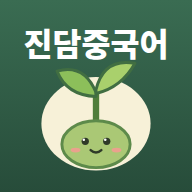
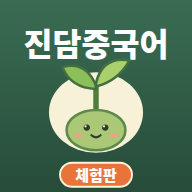
Add files via upload

Changed region(s): [[0.1875, 0.3125, 0.8125, 1.0], [0.4688, 0.6875, 0.5312, 0.7188]]

diff --git a/index.html b/index.html
@@ -5,11 +5,11 @@
   <meta name="viewport" content="width=device-width, initial-scale=1">
   <meta name="theme-color" content="#f7f7ef">
   <link rel="manifest" href="manifest.webmanifest">
-  <link rel="apple-touch-icon" href="assets/apple-touch-icon.png?v=3">
-  <link rel="icon" type="image/png" sizes="192x192" href="assets/app-icon-192.png?v=3">
+  <link rel="apple-touch-icon" href="assets/apple-touch-icon.png?v=4">
+  <link rel="icon" type="image/png" sizes="192x192" href="assets/app-icon-192.png?v=4">
   <meta name="mobile-web-app-capable" content="yes">
   <meta name="apple-mobile-web-app-capable" content="yes">
-  <meta name="apple-mobile-web-app-title" content="덩어리숲">
+  <meta name="apple-mobile-web-app-title" content="덩어리숲 체험판">
   <meta name="apple-mobile-web-app-status-bar-style" content="default">
   <title>중국어덩어리의 숲 | 진담중국어</title>
   <meta name="description" content="진심이 담긴 중국어, 진담중국어가 만든 중국어덩어리의 숲. HSK 단어와 짝꿍어휘를 익히며 나만의 캐릭터를 키워 보세요.">
@@ -56,8 +56,8 @@
     setTimeout(function(){if(!document.hidden)window.__chromeMissing=true;},2500);
   })();
   </script>
-  <link rel="stylesheet" href="style.css?v=update-20260929-13">
-  <script src="scripts.js?v=update-20260929-13" defer></script>
+  <link rel="stylesheet" href="style.css?v=update-20260929-14">
+  <script src="scripts.js?v=update-20260929-14" defer></script>
 </head>
 <body>
 <section id="welcomeScreen" class="welcome-screen" aria-labelledby="welcomeTitle">
@@ -151,7 +151,7 @@
 <dialog id="promotionDialog" class="mobile-sheet promotion" aria-labelledby="promotionTitle"><div id="promotionTimer" class="promotion-timer" role="timer" tabindex="-1"><span id="promotionSeconds">20</span></div><button id="promotionClose" class="icon-button" aria-label="홍보 닫고 계속하기">×</button><p class="eyebrow">진담중국어 · 브랜드 소식</p><div class="promotion-mark" aria-hidden="true">담</div><h2 id="promotionTitle"></h2><p id="promotionBody"></p><p id="promotionNote"></p><p id="promotionWait"></p><button id="promotionContinue" class="primary">계속하기</button></dialog>
 <dialog id="forestDialog" class="mobile-sheet" aria-labelledby="forestHeading"><div class="sheet-heading"><h2 id="forestHeading">어느 숲으로 갈까요?</h2><button class="icon-button" data-close-sheet="forestDialog" aria-label="숲 선택 닫기">×</button></div><div id="forestBody"></div></dialog>
 <dialog id="adventureDialog" class="mobile-sheet" aria-labelledby="adventureHeading"><div class="sheet-heading"><h2 id="adventureHeading">오늘의 모험</h2><button class="icon-button" data-close-sheet="adventureDialog" aria-label="모험 설정 닫기">×</button></div><div id="adventureBody"></div></dialog>
-<dialog id="settingsDialog" class="mobile-sheet" aria-labelledby="settingsHeading"><div class="sheet-heading"><h2 id="settingsHeading">숲 설정</h2><button class="icon-button" data-close-sheet="settingsDialog" aria-label="설정 닫기">×</button></div><div class="sheet-tabs" aria-label="설정 분류"><button data-settings-tab="0">음악</button><button data-settings-tab="1">발음</button><button data-settings-tab="2">게임·돌봄 안내</button><button data-settings-tab="3">업데이트 노트</button><button data-settings-tab="4">기록 옮기기</button></div><div id="settingsBody"><section id="backupPanel" class="backup-panel" hidden aria-labelledby="backupTitle"><h3 id="backupTitle">기록 옮기기</h3><p class="tiny">친구·경험치·코인·단어 기록은 <b>지금 쓰는 브라우저 안에만</b> 저장돼요. 카카오톡 안에서 열었을 때와 크롬·사파리에서 열었을 때도 서로 다른 곳으로 저장돼요.</p><p class="tiny">기록 코드를 만들어 <b>카톡 ‘나와의 채팅’이나 메모장</b>에 붙여 두면, 다른 브라우저나 새 휴대폰에서 그대로 이어서 할 수 있어요.</p><div class="backup-box"><strong>① 지금 기록 저장하기</strong><button type="button" class="primary" id="makeBackup">기록 코드 만들고 복사하기</button><textarea id="backupOut" readonly rows="3" aria-label="내 기록 코드" hidden></textarea><p id="backupOutNote" class="tiny" role="status"></p></div><div class="backup-box"><strong>② 다른 곳에서 불러오기</strong><textarea id="backupIn" rows="3" placeholder="저장해 둔 기록 코드를 붙여 넣어 주세요" aria-label="불러올 기록 코드"></textarea><button type="button" class="secondary" id="loadBackup">이 코드로 기록 불러오기</button><p id="backupInNote" class="tiny" role="status"></p></div></section><section id="updateNotes" hidden aria-labelledby="updateNotesTitle"><h3 id="updateNotesTitle">숲의 업데이트 소식</h3><article><time datetime="2026-09-29">2026.09.29 · 전설의 식물과 물뿌리개</time><ul><li>레벨 15에는 완전히 새로운 신기한 식물로, 레벨 20에는 고대·전설의 식물로 변신해요. (라플레시아, 동충하초, 천년 산삼, 세계수 등 72가지)</li><li>레벨 20 최종 진화 때 빛기둥·불꽃·꽃잎비와 팡파르가 울려요.</li><li>친구를 톡 누르면 식물마다 다른 자기소개를 들려줘요.</li><li>모험 모드가 쉬운 모드·어려운 모드 두 가지로 바뀌었어요. 두 모드 모두 한자→뜻, 뜻→한자가 섞여 나와요. 쉬운 모드는 병음이 늘 보이고 보상이 조금 적어요. 어려운 모드는 병음을 눌러야 보여요. 준비 운동은 없어졌어요.</li><li>새 앱 아이콘 · 무료판 진담중국어 워터마크 · 수강생판 저작권 안내를 넣었어요.</li><li>홈 화면에 추가하면 앱처럼 따로 열려요. (크롬으로 다시 넘어가지 않아요)</li><li>Lv.11~14, Lv.16~19에도 레벨마다 친구가 조금씩 커져요. Lv.16부터는 레벨마다 신비한 빛과 반짝이가 늘어나요.</li><li>틀린 단어가 물뿌리개에 물로 모여요. 5개가 모여 가득 차면 복습하고 물을 줄 수 있어요. 가득 찼을 때는 모험 전에 복습부터 해요.</li><li>카카오톡·사파리·삼성 인터넷 등 어디서 열어도 크롬으로 열려요. (아이폰 포함) 크롬으로 넘어갈 때 지금까지의 기록도 함께 옮겨져요.</li><li>나의 성장길에 Lv.15 신기한 식물 · Lv.16~19 신비한 길 · Lv.20 전설의 식물 단계가 새로 보여요. 만난 식물은 자기소개도 함께 적혀 있어요.</li></ul></article><article><time datetime="2026-09-29">2026.09.29 · 레벨 20까지 자라요</time><ul><li>친구가 레벨 20까지 자라요. 레벨 10 이후에도 계속 무르익어요.</li><li>레벨 15에 성장길마다 두 갈래가 열려요. 모두 36가지 새로운 모습이에요. 마음나무 ‘바람의 길’에서는 푸른 대나무로 자랄 수 있어요.</li><li>레벨 20에는 빛나는 최종 진화 모습이 돼요.</li><li>나의 성장길에서 레벨 20까지 이어진 길을 볼 수 있어요.</li></ul></article><article><time datetime="2026-09-29">2026.09.29 · 새 단어장과 이어지는 성장길</time><ul><li>HSK 1~5급 단어를 새 단어장으로 바꿨어요. 1급 300 · 2급 200 · 3급 500 · 4급 1000 · 5급 1600단어, 단어마다 짝꿍어휘 3개예요.</li><li>이전과 같은 단어는 복습 기록이 그대로 이어져요.</li><li>성장 계열을 고르면 나의 성장길이 마음싹에서 그 갈래로 바로 이어져요. 다른 갈래는 아래에서 구경할 수 있어요.</li><li>중국어 음성을 기기별 여성 음성으로 자동 선택해요. 아이폰·맥은 Tingting, 안드로이드는 Google 보통화, 윈도우 엣지는 Xiaoxiao예요.</li><li>写·东西·他 등 23개 단어의 병음 뒤에 붙어 있던 문서 머리글을 지우고, 대화형 짝꿍어휘 2곳과 儿화 병음 14곳을 바로잡았어요.</li><li>급수·문제 방향 버튼을 시작 버튼 바로 옆으로 옮겼어요.</li><li>물주기 버튼에 복습 단어가 남아 있다고 나오는데 복습이 시작되지 않던 문제를 고쳤어요.</li><li>돌봄 안내와 도움말을 친구가 중국어로 말해 줘요. 아래에 한국어 번역이 함께 나와요. 친구를 톡 누르면 게임 도움말도 들려줘요.</li></ul></article><article><time datetime="2026-09-28">2026.09.28 · 기억하는 숲</time><ul><li>틀린 단어는 기록해 두었다가 다음 판에 먼저 다시 나와요. 맞힌 단어는 1일·3일·7일·14일·30일 간격으로 복습해요.</li><li>복습할 단어가 있으면 물주기가 ‘복습하고 물주기’로 바뀌어요. 한 판(5문제 이상)을 마치면 친구가 물을 듬뿍 마셔요.</li><li>답을 고르면 정답은 초록, 내가 고른 답은 빨강으로 바로 보여요. 틀렸을 때는 병음과 뜻, 내가 고른 단어의 뜻까지 함께 보여 줘요.</li><li>이제 틀려도 경험치가 줄지 않아요. 대신 5개 연속으로 맞히면 +3 XP를 더 받아요.</li><li>제한 시간이 급수에 따라 7~12초로 달라지고, ‘여유롭게’를 고르면 5초가 더 생겨요.</li><li>로비의 큰 버튼으로 바로 모험을 시작하고, 설정의 ‘기록 옮기기’로 다른 브라우저에 기록을 옮길 수 있어요.</li></ul></article><article><time datetime="2026-09-22">2026.09.22 · 성장길 지도</time><ul><li>상단 ‘나의 성장길’에서 친구가 진화해 온 모습을 볼 수 있어요.</li><li>레벨 3의 여섯 성장 계열과 레벨 10의 최종 세 갈래를 한눈에 살펴봐요.</li><li>지나온 길과 현재 위치는 선명하게, 아직 만나지 않은 모습은 실루엣으로 보여요.</li><li>꾸미기는 장식에 집중하도록 성장 계열과 성장길 선택을 옮겼어요. 미뤄 둔 진화는 성장길 창에서 이어갈 수 있어요.</li></ul></article><article><time datetime="2026-09-22">2026.09.22 · 더 편한 꾸미기</time><ul><li>장식을 한 손가락으로 이동하고 두 손가락으로 크기와 회전을 조절해요. PC는 ↗ 손잡이를 끌어 보세요.</li><li>상단 메뉴 높이와 톱니바퀴 위치를 맞췄어요.</li><li>설정의 ‘최신 화면 불러오기’로 학습 기록을 유지하면서 새 화면을 불러와요.</li></ul></article><p class="tiny">현재 버전 · 2026.09.29-6<br>학습 기록과 친구의 성장은 기존 그대로 이어져요.</p></section></div><footer class="refresh-settings"><button id="refreshApp" class="secondary" type="button">↻ 최신 화면 불러오기</button><small>학습 기록과 친구는 그대로 유지돼요 · 2026.09.29-13</small><p class="copyright-note"><b>© 2026 진담중국어. All rights reserved.</b>이 게임의 단어 자료·그림·문제·캐릭터 등 모든 콘텐츠의 저작권은 진담중국어에 있습니다. 진담중국어 수강생의 개인 학습용으로만 제공되며, 무단 복제·배포·공유(링크 포함)·상업적 이용을 금합니다.</p></footer></dialog>
+<dialog id="settingsDialog" class="mobile-sheet" aria-labelledby="settingsHeading"><div class="sheet-heading"><h2 id="settingsHeading">숲 설정</h2><button class="icon-button" data-close-sheet="settingsDialog" aria-label="설정 닫기">×</button></div><div class="sheet-tabs" aria-label="설정 분류"><button data-settings-tab="0">음악</button><button data-settings-tab="1">발음</button><button data-settings-tab="2">게임·돌봄 안내</button><button data-settings-tab="3">업데이트 노트</button><button data-settings-tab="4">기록 옮기기</button></div><div id="settingsBody"><section id="backupPanel" class="backup-panel" hidden aria-labelledby="backupTitle"><h3 id="backupTitle">기록 옮기기</h3><p class="tiny">친구·경험치·코인·단어 기록은 <b>지금 쓰는 브라우저 안에만</b> 저장돼요. 카카오톡 안에서 열었을 때와 크롬·사파리에서 열었을 때도 서로 다른 곳으로 저장돼요.</p><p class="tiny">기록 코드를 만들어 <b>카톡 ‘나와의 채팅’이나 메모장</b>에 붙여 두면, 다른 브라우저나 새 휴대폰에서 그대로 이어서 할 수 있어요.</p><div class="backup-box"><strong>① 지금 기록 저장하기</strong><button type="button" class="primary" id="makeBackup">기록 코드 만들고 복사하기</button><textarea id="backupOut" readonly rows="3" aria-label="내 기록 코드" hidden></textarea><p id="backupOutNote" class="tiny" role="status"></p></div><div class="backup-box"><strong>② 다른 곳에서 불러오기</strong><textarea id="backupIn" rows="3" placeholder="저장해 둔 기록 코드를 붙여 넣어 주세요" aria-label="불러올 기록 코드"></textarea><button type="button" class="secondary" id="loadBackup">이 코드로 기록 불러오기</button><p id="backupInNote" class="tiny" role="status"></p></div></section><section id="updateNotes" hidden aria-labelledby="updateNotesTitle"><h3 id="updateNotesTitle">숲의 업데이트 소식</h3><article><time datetime="2026-09-29">2026.09.29 · 전설의 식물과 물뿌리개</time><ul><li>레벨 15에는 완전히 새로운 신기한 식물로, 레벨 20에는 고대·전설의 식물로 변신해요. (라플레시아, 동충하초, 천년 산삼, 세계수 등 72가지)</li><li>레벨 20 최종 진화 때 빛기둥·불꽃·꽃잎비와 팡파르가 울려요.</li><li>친구를 톡 누르면 식물마다 다른 자기소개를 들려줘요.</li><li>무료판은 체험판으로 바뀌었어요: Lv.10까지 자라고 성장 계열은 마음꽃·마음송이 두 가지예요. 체험판 앱 아이콘이 따로 있어요.</li><li>모험 모드가 쉬운 모드·어려운 모드 두 가지로 바뀌었어요. 두 모드 모두 한자→뜻, 뜻→한자가 섞여 나와요. 쉬운 모드는 병음이 늘 보이고 보상이 조금 적어요. 어려운 모드는 병음을 눌러야 보여요. 준비 운동은 없어졌어요.</li><li>새 앱 아이콘 · 무료판 진담중국어 워터마크 · 수강생판 저작권 안내를 넣었어요.</li><li>홈 화면에 추가하면 앱처럼 따로 열려요. (크롬으로 다시 넘어가지 않아요)</li><li>Lv.11~14, Lv.16~19에도 레벨마다 친구가 조금씩 커져요. Lv.16부터는 레벨마다 신비한 빛과 반짝이가 늘어나요.</li><li>틀린 단어가 물뿌리개에 물로 모여요. 5개가 모여 가득 차면 복습하고 물을 줄 수 있어요. 가득 찼을 때는 모험 전에 복습부터 해요.</li><li>카카오톡·사파리·삼성 인터넷 등 어디서 열어도 크롬으로 열려요. (아이폰 포함) 크롬으로 넘어갈 때 지금까지의 기록도 함께 옮겨져요.</li><li>나의 성장길에 Lv.15 신기한 식물 · Lv.16~19 신비한 길 · Lv.20 전설의 식물 단계가 새로 보여요. 만난 식물은 자기소개도 함께 적혀 있어요.</li></ul></article><article><time datetime="2026-09-29">2026.09.29 · 레벨 20까지 자라요</time><ul><li>친구가 레벨 20까지 자라요. 레벨 10 이후에도 계속 무르익어요.</li><li>레벨 15에 성장길마다 두 갈래가 열려요. 모두 36가지 새로운 모습이에요. 마음나무 ‘바람의 길’에서는 푸른 대나무로 자랄 수 있어요.</li><li>레벨 20에는 빛나는 최종 진화 모습이 돼요.</li><li>나의 성장길에서 레벨 20까지 이어진 길을 볼 수 있어요.</li></ul></article><article><time datetime="2026-09-29">2026.09.29 · 새 단어장과 이어지는 성장길</time><ul><li>HSK 1~5급 단어를 새 단어장으로 바꿨어요. 1급 300 · 2급 200 · 3급 500 · 4급 1000 · 5급 1600단어, 단어마다 짝꿍어휘 3개예요.</li><li>이전과 같은 단어는 복습 기록이 그대로 이어져요.</li><li>성장 계열을 고르면 나의 성장길이 마음싹에서 그 갈래로 바로 이어져요. 다른 갈래는 아래에서 구경할 수 있어요.</li><li>중국어 음성을 기기별 여성 음성으로 자동 선택해요. 아이폰·맥은 Tingting, 안드로이드는 Google 보통화, 윈도우 엣지는 Xiaoxiao예요.</li><li>写·东西·他 등 23개 단어의 병음 뒤에 붙어 있던 문서 머리글을 지우고, 대화형 짝꿍어휘 2곳과 儿화 병음 14곳을 바로잡았어요.</li><li>급수·문제 방향 버튼을 시작 버튼 바로 옆으로 옮겼어요.</li><li>물주기 버튼에 복습 단어가 남아 있다고 나오는데 복습이 시작되지 않던 문제를 고쳤어요.</li><li>돌봄 안내와 도움말을 친구가 중국어로 말해 줘요. 아래에 한국어 번역이 함께 나와요. 친구를 톡 누르면 게임 도움말도 들려줘요.</li></ul></article><article><time datetime="2026-09-28">2026.09.28 · 기억하는 숲</time><ul><li>틀린 단어는 기록해 두었다가 다음 판에 먼저 다시 나와요. 맞힌 단어는 1일·3일·7일·14일·30일 간격으로 복습해요.</li><li>복습할 단어가 있으면 물주기가 ‘복습하고 물주기’로 바뀌어요. 한 판(5문제 이상)을 마치면 친구가 물을 듬뿍 마셔요.</li><li>답을 고르면 정답은 초록, 내가 고른 답은 빨강으로 바로 보여요. 틀렸을 때는 병음과 뜻, 내가 고른 단어의 뜻까지 함께 보여 줘요.</li><li>이제 틀려도 경험치가 줄지 않아요. 대신 5개 연속으로 맞히면 +3 XP를 더 받아요.</li><li>제한 시간이 급수에 따라 7~12초로 달라지고, ‘여유롭게’를 고르면 5초가 더 생겨요.</li><li>로비의 큰 버튼으로 바로 모험을 시작하고, 설정의 ‘기록 옮기기’로 다른 브라우저에 기록을 옮길 수 있어요.</li></ul></article><article><time datetime="2026-09-22">2026.09.22 · 성장길 지도</time><ul><li>상단 ‘나의 성장길’에서 친구가 진화해 온 모습을 볼 수 있어요.</li><li>레벨 3의 여섯 성장 계열과 레벨 10의 최종 세 갈래를 한눈에 살펴봐요.</li><li>지나온 길과 현재 위치는 선명하게, 아직 만나지 않은 모습은 실루엣으로 보여요.</li><li>꾸미기는 장식에 집중하도록 성장 계열과 성장길 선택을 옮겼어요. 미뤄 둔 진화는 성장길 창에서 이어갈 수 있어요.</li></ul></article><article><time datetime="2026-09-22">2026.09.22 · 더 편한 꾸미기</time><ul><li>장식을 한 손가락으로 이동하고 두 손가락으로 크기와 회전을 조절해요. PC는 ↗ 손잡이를 끌어 보세요.</li><li>상단 메뉴 높이와 톱니바퀴 위치를 맞췄어요.</li><li>설정의 ‘최신 화면 불러오기’로 학습 기록을 유지하면서 새 화면을 불러와요.</li></ul></article><p class="tiny">현재 버전 · 2026.09.29-6<br>학습 기록과 친구의 성장은 기존 그대로 이어져요.</p></section></div><footer class="refresh-settings"><button id="refreshApp" class="secondary" type="button">↻ 최신 화면 불러오기</button><small>학습 기록과 친구는 그대로 유지돼요 · 2026.09.29-14</small><p class="copyright-note"><b>© 2026 진담중국어. All rights reserved.</b>이 게임의 단어 자료·그림·문제·캐릭터 등 모든 콘텐츠의 저작권은 진담중국어에 있습니다. 진담중국어 수강생의 개인 학습용으로만 제공되며, 무단 복제·배포·공유(링크 포함)·상업적 이용을 금합니다.</p></footer></dialog>
 <dialog id="evolutionDialog" aria-labelledby="evolutionTitle" aria-describedby="evolutionPhrase evolutionLevels">
  <button type="button" class="evolution-skip" id="skipEvolution">건너뛰기</button>
  <div class="evolution-content"><p class="evolution-kicker">함께 자라는 우리의 숲</p><h2 id="evolutionTitle">함께 공부해서 자랐어요!</h2>

diff --git a/scripts.js b/scripts.js
@@ -45,6 +45,9 @@
     while(lo+1<hi){const mid=Math.floor((lo+hi)/2);if(xpStart(mid,forest)<=xp)lo=mid;else hi=mid;}
     return lo;
   }
+  // 체험판(무료판)은 Lv.10까지만 자라요.
+  const MAX_LEVEL=EDITION==='free'?10:Infinity;
+  const xpCap=(forest=activeForest)=>MAX_LEVEL===Infinity?Number.MAX_SAFE_INTEGER:xpStart(MAX_LEVEL+1,forest)-1;
   const $ = id => document.getElementById(id);
   { const tag=document.querySelector('.topbar .edition');if(tag)tag.textContent=(EDITION==='free'?'무료판':'수강생판')+' · 함께 자라는 숲'; }
   // 단어는 급수별 파일(data/hsk1.js …)에서 필요할 때만 불러와요.
@@ -203,7 +206,11 @@
     ]}
   };
   const STUDENT_PETS=['clover','berry','tree'];
-  const petAllowed=pet=>!STUDENT_PETS.includes(pet)||Boolean(STUDENT_BG);
+  // 체험판(무료판)은 마음꽃·마음송이 두 갈래만 고를 수 있어요. 이미 마음담이를 키우던 친구는 그대로 키워요.
+  const FREE_LOCKED=EDITION==='free'?['succulent',...STUDENT_PETS]:STUDENT_PETS;
+  const FREE_LEGACY=new Set();
+  if(EDITION==='free')try{for(let i=0;i<3;i++){const f=JSON.parse(localStorage.getItem(forestKey(i))||'null')?.family;if(f==='succulent')FREE_LEGACY.add(f);}}catch{}
+  const petAllowed=pet=>!FREE_LOCKED.includes(pet)||Boolean(STUDENT_BG)||FREE_LEGACY.has(pet);
   Object.assign(GROWTH,{
     clover:{name:'마음잎',icon:'🍀',routes:[
       {id:'lucky',name:'행운의 길',final:'행운의 네잎클로버',gift:'행운 보석'},
@@ -1088,8 +1095,8 @@
         const migrated=xpStart(oldLevel,0)+Math.floor((saved.xp%100)/100*xpNeeded(oldLevel,0));
         const baseXP=saved.schema>=5?saved.xp:migrated;
         const xp=saved.schema>=6?saved.xp:Math.min(Number.MAX_SAFE_INTEGER,Math.floor(baseXP*XP_MULTIPLIERS[index]));
-        const level=levelFromXP(xp,index);
-        loaded={...loaded,xp,level,garden:normalizeGarden(saved.garden),voice:typeof saved.voice==='string'?saved.voice:'',difficulty:saved.difficulty==='easy'?'easy':'hard',rate:[.5,.75].includes(saved.rate)?.5:.9,
+        const level=levelFromXP(Math.min(xp,xpCap(index)),index);
+        loaded={...loaded,xp:Math.min(xp,xpCap(index)),level,garden:normalizeGarden(saved.garden),voice:typeof saved.voice==='string'?saved.voice:'',difficulty:saved.difficulty==='easy'?'easy':'hard',rate:[.5,.75].includes(saved.rate)?.5:.9,
           look:safeLook(saved.look,level,index),routes:safeRoutes(saved.routes,level),branches:safeBranches(saved.branches,level,safeRoutes(saved.routes,level)),family:level>=3&&petAllowed(saved.family)&&GROWTH[saved.family]?saved.family:null};
         if(loaded.family)loaded.look.pet=loaded.family;
       }
@@ -1105,6 +1112,7 @@
   function renderProfile(){
     const progress=profile.xp-xpStart(profile.level), needed=xpNeeded(profile.level);
     $('levelTag').textContent=`LV. ${profile.level}`;$('xpLabel').textContent=`${progress.toLocaleString()} / ${needed.toLocaleString()} XP`;$('xpBar').max=needed;$('xpBar').value=progress;$('totalXp').textContent=`누적 ${profile.xp.toLocaleString()} XP`;
+    const capped=profile.level>=MAX_LEVEL;$('xpLabel').nextElementSibling.textContent=capped?'체험판 최고 레벨':'다음 레벨까지';if(capped){$('xpLabel').textContent='Lv.10 달성!';$('xpBar').value=$('xpBar').max;}
     const name=growthName(profile.look.pet,profile.routes,profile.level);
     $('characterName').textContent=profile.look.name||name;$('characterMessage').textContent=profile.look.name?name:profile.level<3?'작은 씨앗에서 시작하는 나의 이야기':'매일 배우며 조금씩 자라고 있어요.';
     const current=profile.level===1?0:profile.level===2?1:!profile.family?1:profile.level<4?2:profile.level<10?3:profile.level<15?4:profile.level<20?5:6;
@@ -1267,6 +1275,7 @@
   function renderUnlockHint(){
     if(profile.level<3){$('unlockHint').textContent='Lv.3에 내 친구 꾸미기에서 성장 계열을 고를 수 있어요.';return;}
     if(!profile.family||!routeFor(profile.look.pet,profile.routes)){$('unlockHint').textContent='내 친구 꾸미기에서 성장 방향을 선택해 주세요!';return;}
+    if(profile.level>=MAX_LEVEL){$('unlockHint').textContent='체험판은 Lv.10까지예요. 수강생판에서 Lv.15 신기한 식물 · Lv.20 전설의 식물로 계속 자라요!';return;}
     if(profile.level<10){$('unlockHint').textContent=`Lv.10까지 조금씩 성장해요. 다음 모습은 아직 비밀!`;return;}
     if(profile.level<15){$('unlockHint').textContent='Lv.15에 새로운 두 갈래가 열려요! 성장 보석도 달아 보세요.';return;}
     if(!branchFor(profile.look.pet,profile.routes,profile.branches)){$('unlockHint').textContent='나의 성장길에서 Lv.15 갈래를 골라 주세요!';return;}
@@ -1319,6 +1328,8 @@
       const finals=document.createElement('div');finals.className='growth-journey-grid';
       for(const route of info.routes){const reached=profile.level>=10&&chosen?.id===route.id;const el=node(picked,route.id,10,reached?route.final:route.name,reached,reached&&profile.level<11,null);if(!reached&&chosen)el.classList.add('not-taken');finals.append(el);}
       journey.append(finals);
+      if(MAX_LEVEL<=10){const lock=document.createElement('div');lock.className='growth-trial-lock';lock.innerHTML='<strong>🔒 Lv.11 ~ 20은 수강생판에서 열려요</strong><span>Lv.15 신기한 식물 · Lv.20 고대·전설의 식물로 변신하는 길이 기다리고 있어요.</span>';journey.append(link(false),lock);}
+      else{
       // Lv.11 ~ 20: 무르익는 길 → Lv.15 신기한 식물(두 갈래) → 신비한 길 → Lv.20 고대·전설의 식물
       const lv=profile.level,br=branchFor(picked,profile.routes,profile.branches);
       const grid=cls=>{const g=document.createElement('div');g.className='growth-journey-grid '+cls;return g;};
@@ -1335,6 +1346,7 @@
       g4.append(br?node(picked,chosen.id,20,lv>=20?br.final:'??? 전설의 식물',lv>=20,lv>=20,br.id):node(picked,chosen?.id||null,20,'??? 전설의 식물',false,false,null));
       if(lv<20){const hint=document.createElement('p');hint.className='growth-legend-hint';hint.textContent=br?`Lv.20이 되면 ${br.name}이(가) 고대·전설의 식물로 깨어나요. 어떤 모습일지는 그때 공개!`:'Lv.15에서 고른 식물이 Lv.20에 고대·전설의 식물로 깨어나요.';g4.append(hint);}
       journey.append(g2,link(lv>=16),heading(br?`Lv.16 ~ 19 · ${br.name}의 신비한 길`:'Lv.16 ~ 19 · 신비한 길','h4'),g3,link(lv>=20),heading('Lv.20 · 최종 진화 · 고대·전설의 식물','h4'),g4);
+      }
       tree.append(journey);
       const others=document.createElement('details');others.className='growth-others';
       const sum=document.createElement('summary');sum.textContent='다른 다섯 갈래도 구경하기';others.append(sum);
@@ -1691,7 +1703,8 @@
     if(state.mode==='practice') return 0;
     const before=profile.xp;
     // Keep the XP floor at the start of the level already earned.
-    profile.xp=Math.max(xpStart(profile.level),profile.xp+delta);
+    profile.xp=Math.min(xpCap(),Math.max(xpStart(profile.level),profile.xp+delta));
+    if(MAX_LEVEL!==Infinity&&profile.xp>=xpCap()&&before<xpCap())friendSay('体验版只能长到10级哦！','체험판은 Lv.10까지 자랄 수 있어요. 수강생판에서는 Lv.20 전설의 식물까지 키울 수 있어요!');
     profile.level=Math.max(profile.level,levelFromXP(profile.xp));
     save();renderProfile();
     return profile.xp-before;
@@ -2378,6 +2391,7 @@
       '반짝 비료는 50코인에 구매해요. 바구니에서 먹이면 본게임 기본 정답 10회에 각각 +3 XP를 더 받아요. 오답·보너스·틀린 단어 연습에는 횟수가 줄지 않고, 전체 정답 보너스에는 비료 효과를 더하지 않아요.']
   );
   if(!STUDENT_BG)GUIDE_PAGES.push(['무료판과 기록 안내',
+    '체험판(무료판)은 친구가 Lv.10까지 자라고, 성장 계열은 마음꽃·마음송이 두 가지 중에서 골라요. Lv.15 신기한 식물과 Lv.20 전설의 식물, 더 많은 성장 계열은 수강생판에서 만날 수 있어요.',
     '무료판은 한 판을 마친 뒤 결과 화면에서 진담중국어 소식이 한 번 나와요. 5초 뒤 닫고 결과를 볼 수 있어요.',
     '오른쪽 위 원형 타이머로 남은 시청 시간을 봐요. 다른 탭으로 이동하면 시청 시간이 멈추며, 홍보 중에는 문제 타이머도 흐르지 않아요. 결과 홍보를 닫으면 전체 정답 축하·진화가 있는 경우 순서대로 볼 수 있어요. 수강생판에는 홍보가 표시되지 않아요.',
     '캐릭터와 학습 기록은 이 브라우저에 저장해요. 다른 브라우저나 기기로 옮길 때는 설정 › 기록 옮기기에서 기록 코드를 만들어 붙여 넣어 주세요. 무료판과 수강생판 기록도 별개예요.']);

diff --git a/style.css b/style.css
@@ -753,3 +753,5 @@ html[data-edition="free"] .free-watermark{display:block;position:fixed;inset:0;z
 html[data-edition="free"] .free-watermark span{position:absolute;right:12px;bottom:calc(10px + env(safe-area-inset-bottom));font-size:12px;font-weight:800;letter-spacing:1px;color:#315e48;opacity:.35;background:#ffffffaa;padding:2px 8px;border-radius:10px}
 @media print{html[data-edition="free"] .free-watermark{display:block}}
 .lobby-copyright{text-align:center;font-size:10px;margin:8px 0 0;opacity:.85}
+.growth-trial-lock{margin:6px auto 0;max-width:420px;padding:14px 16px;border-radius:16px;border:1.5px dashed #c9b477;background:#fffbea;text-align:center}
+.growth-trial-lock strong{display:block;font-size:14px;color:#6b5418}.growth-trial-lock span{display:block;margin-top:4px;font-size:12px;color:var(--muted);word-break:keep-all}
